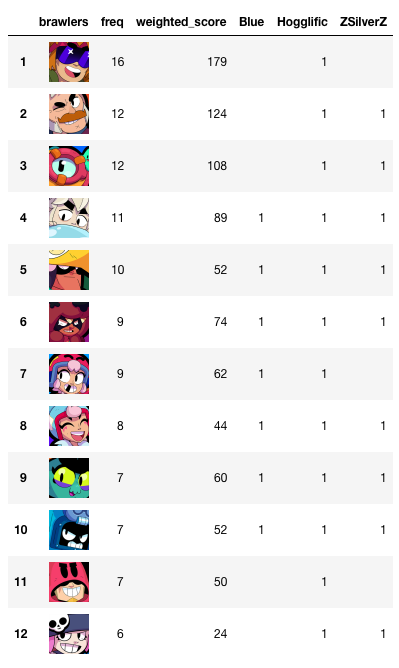
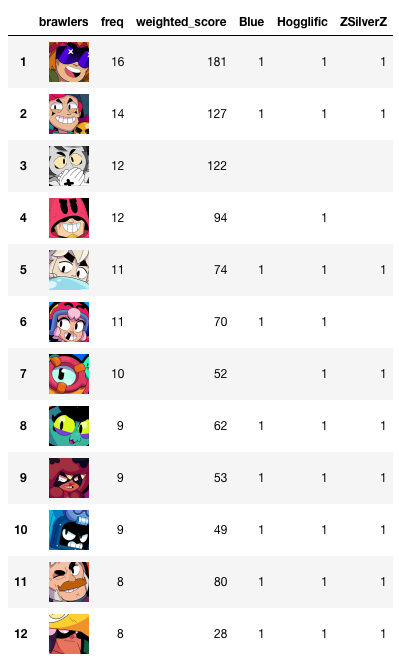
update highest pl rank

diff --git a/get_highest_pl_rank.py b/get_highest_pl_rank.py
@@ -1,0 +1,38 @@
+import pandas as pd 
+import requests
+import re
+from tqdm import tqdm
+
+from pl_mapping_dict import mapping_dict
+
+headers = {'User-Agent': 'Mozilla/5.0 (X11; Linux x86_64; rv:12.0) Gecko/20100101 Firefox/12.0'}
+
+def get_highest_pl_score(tag):
+    attempts = 0
+    while attempts <5:
+        try:
+            brawlstars_url = 'https://brawlstats.com/profile/'
+            tag = tag.replace('#','')
+            url = brawlstars_url + tag
+            response = requests.get(url, headers=headers).text
+            response = response[response.find('Highest Solo League'):response.find('Highest Solo League')+135]
+            response = response[response.find('<img'):]
+            highest_pl_score = int(re.findall(r'\d+', response)[0])
+            return highest_pl_score
+        except:
+            print('Error for:', tag)
+            print(response)
+    return -1
+
+df = pd.read_csv('./output/c9/c9aurac_brawler_levels.csv')
+
+highest_pl_scores = []
+
+for i in tqdm(range(len(df))):
+    highest_pl_scores.append(get_highest_pl_score(df['tag'].iloc[i]))
+
+df['highest_pl_score'] = highest_pl_scores
+df['hightest_pl_rank'] = df['highest_pl_score'].map(lambda x: mapping_dict[x])
+
+df = df.sort_values(by=['highest_pl_score','pl_score'], ascending=[False,False]).reset_index(drop=True)
+df.to_csv('./output/c9/c9aurac_pl_ranks.csv', index=False)
